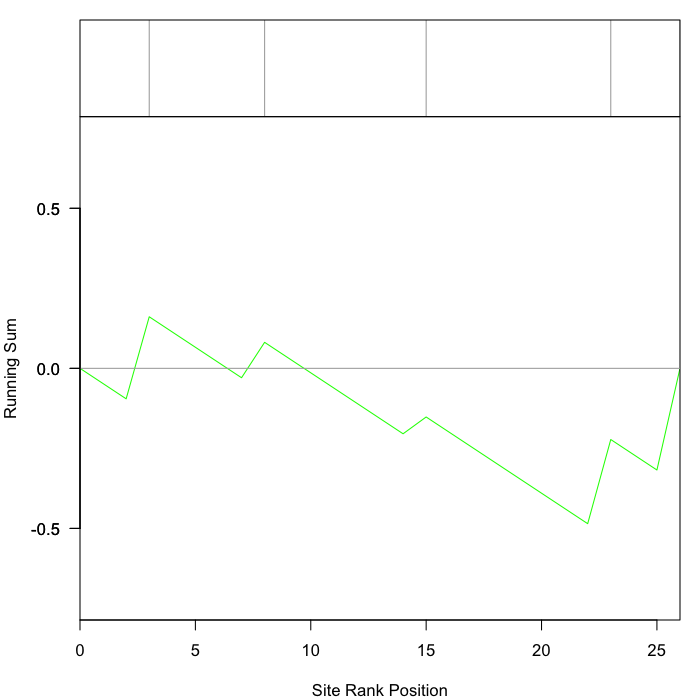
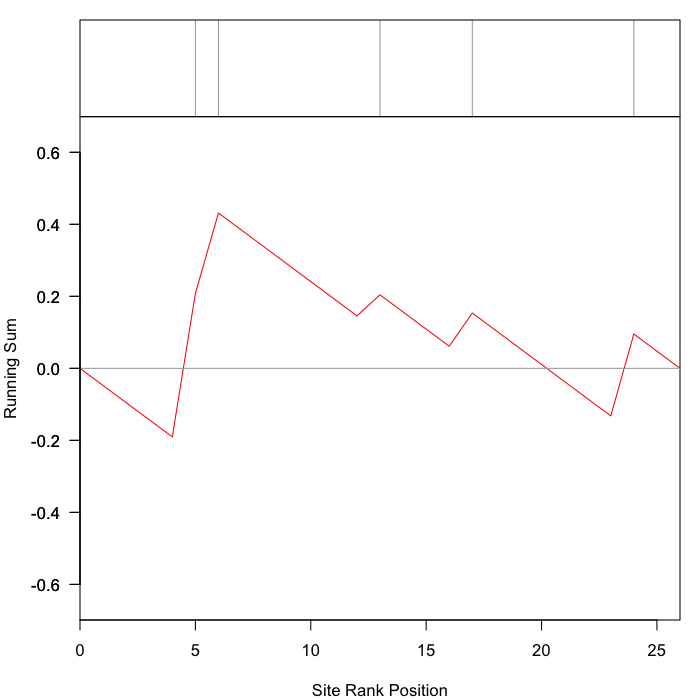
Parallel imported

diff --git a/README.md b/README.md
@@ -1,4 +1,3 @@
-
 [![Travis-CI Build Status](https://travis-ci.org/evocellnet/ksea.svg?branch=master)](https://travis-ci.org/evocellnet/ksea)
 
 ### Introduction
@@ -21,7 +20,7 @@ install.packages('devtools')
 
 ```r
 require(devtools)
-install_github("dogcaesar/ksea")
+install_github("evocellnet/ksea")
 ```
 
 #####Local installation
@@ -53,7 +52,7 @@ regulons
 
 ```
 ## $kinaseA
-## [1] "D" "Y" "M" "R" "F"
+## [1] "Y" "C" "I" "S" "B"
 ```
 
 ```r
@@ -64,16 +63,18 @@ sites
 ```
 
 ```
-##           H           W           M           T           B           Q 
-##  1.35493454  1.22982337  1.20976224  1.19283534  1.07068773  1.03135307 
-##           A           R           O           I           Z           V 
-##  0.59213343  0.52228920  0.38475542  0.08131043 -0.03939757 -0.04698889 
-##           J           U           Y           K           S           C 
-## -0.06058610 -0.18578440 -0.24771177 -0.24956496 -0.48579737 -0.62584545 
-##           X           E           L           N           F           P 
-## -0.63211973 -0.67376567 -0.90732279 -1.10864892 -1.24098466 -1.43944726 
-##           G           D 
-## -1.49230285 -1.49906797
+##            E            U            Z            N            S 
+##  1.611089290  1.250664569  1.234637179  1.082452371  1.026981805 
+##            B            Q            J            M            D 
+##  0.575379472  0.532877556  0.474246843  0.421483820  0.358049788 
+##            F            K            Y            G            O 
+##  0.194403791  0.162551646  0.150628008  0.008759558 -0.150678120 
+##            P            C            W            V            T 
+## -0.156401856 -0.237702939 -0.240834542 -0.254118235 -0.317312680 
+##            H            R            A            I            X 
+## -0.337654466 -0.406046178 -0.433621274 -0.585813866 -1.189626572 
+##            L 
+## -1.706905250
 ```
 
 The function `ksea` will run the enrichment analysis for the provided quantifications and known kinase targets.
@@ -83,7 +84,7 @@ The function `ksea` will run the enrichment analysis for the provided quantifica
 ksea_result <- ksea(names(sites), sites, regulons[["kinaseA"]], trial=1000, significance = TRUE)
 ```
 
-![plot of chunk ksea](figure/ksea-1.png) 
+![plot of chunk ksea](figure/ksea-1.png)
 
 ```r
 ksea_result
@@ -91,12 +92,12 @@ ksea_result
 
 ```
 ## $ES
-##          N 
-## -0.4853042 
+##         B 
+## 0.4314363 
 ## 
 ## $p.value
-##     N 
-## 0.249
+##     B 
+## 0.447
 ```
 
 The function `ksea_batchKinases` calculates the KSEA p-value for a list of kinases. To improve the performance of the function, it uses as many cores as possible using the `parallell` package.
@@ -110,13 +111,13 @@ regulons
 
 ```
 ## $kinaseA
-## [1] "D" "Y" "M" "R" "F"
+## [1] "Y" "C" "I" "S" "B"
 ## 
 ## $kinaseB
-## [1] "C" "E" "Z"
+## [1] "J" "N" "E"
 ## 
 ## $kinaseC
-## [1] "E" "H" "D" "O" "A" "T" "C"
+## [1] "W" "E" "C" "Z" "G" "A" "U"
 ```
 
 ```r
@@ -132,8 +133,8 @@ kinases_ksea
 ```
 
 ```
-## kinaseA.N kinaseB.S kinaseC.T 
-##     0.260     0.186     0.412
+## kinaseA.B kinaseB.J kinaseC.Z 
+##     0.439     0.091     0.005
 ```
 
 ##### KSEA in parallel #####
